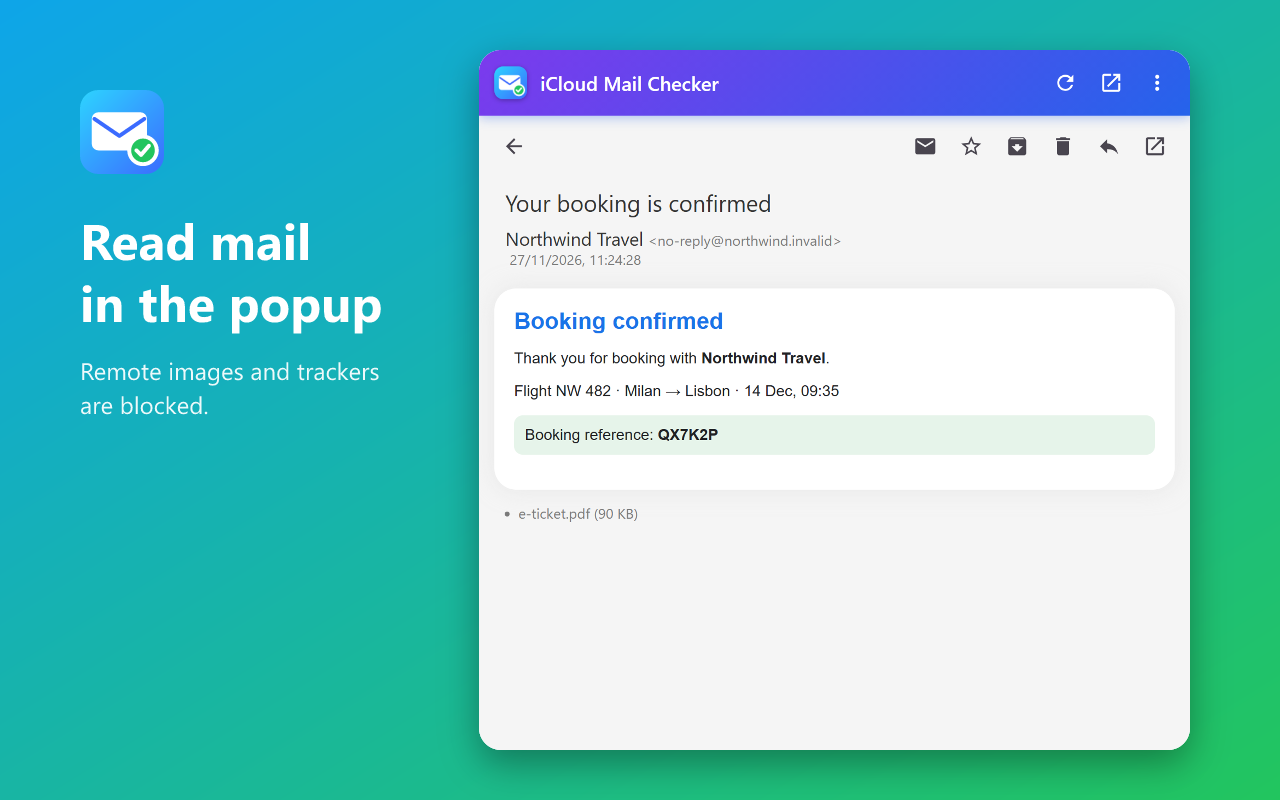
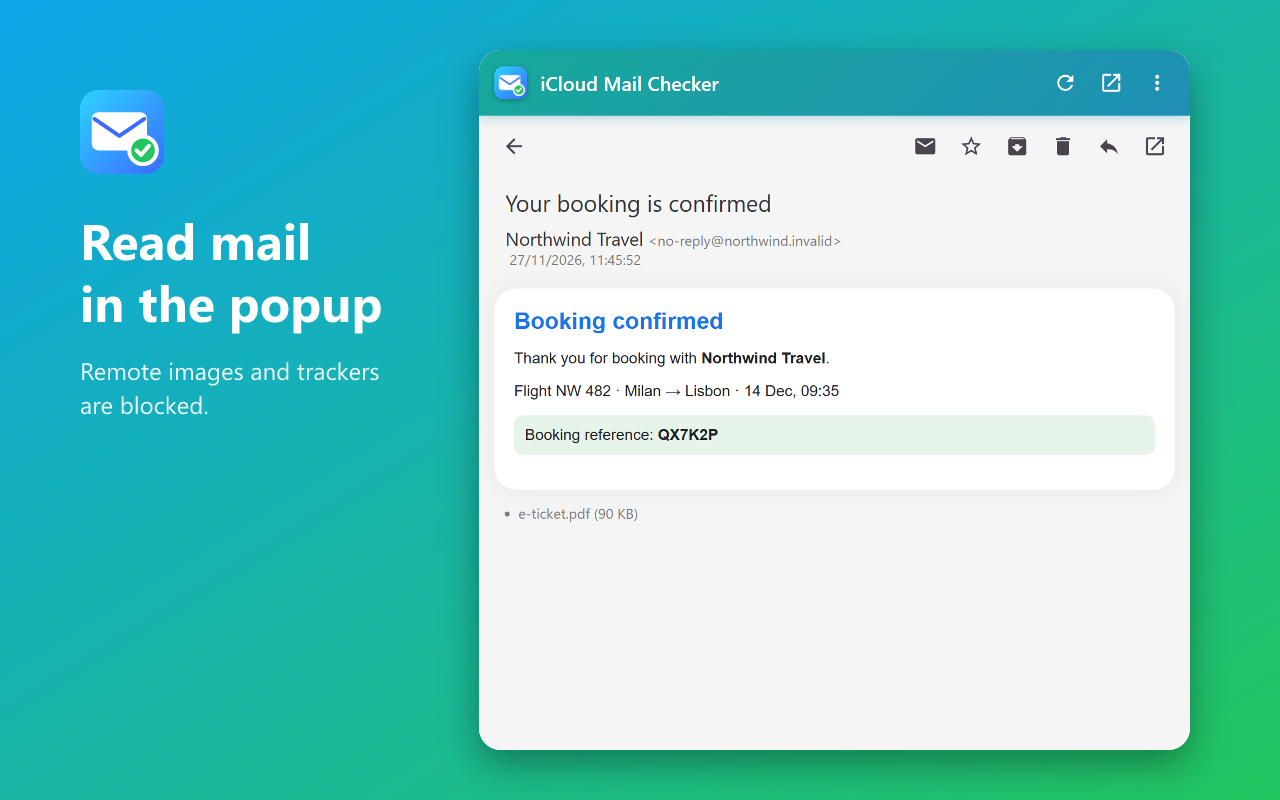
Teal header; mail cards with star, two-line preview, outlined read cards, unread count by address

Changed region(s): [[0.375, 0.0625, 0.9375, 0.1562], [0.4688, 0.3125, 0.5, 0.3438]]

diff --git a/popup/popup.css b/popup/popup.css
@@ -5,21 +5,21 @@
   --bg: #f5f5f5; --card: #fff; --text: #333; --mut: #7a7a7a; --accent: #0b57d0;
   --line: #e2e2e2; --hover: #eaeaea; --icon: #49454f; --unread: #0b57d0; --read-bg: #ebebeb;
   --glow: 0 0 20px 0 rgba(219, 219, 219, .5); --ring: 0 0 0 1px rgba(193, 193, 193, .6);
-  --on-accent: #fff; --tab-on: rgba(11, 87, 208, .1); --hero-a: #7c3aed; --hero-b: #2563eb;
+  --on-accent: #fff; --tab-on: rgba(11, 87, 208, .1); --hero-a: #17a99b; --hero-b: #1f8fb4;
 }
 :root[data-theme="light"] { color-scheme: light; }
 :root[data-theme="dark"] {
     color-scheme: dark;
     --bg: #131314; --card: #232323; --text: #ddd; --mut: #9b9b9b; --accent: #e3e3e3;
     --line: #3a3a3a; --hover: #333; --icon: #ccc; --unread: #8ab4f8; --read-bg: #1b1b1c; --glow: none; --ring: 0 0 0 1px #4a4a4a;
-    --on-accent: #1b1b1b; --tab-on: rgba(255, 255, 255, .12); --hero-a: #c4b5fd; --hero-b: #93c5fd;
+    --on-accent: #1b1b1b; --tab-on: rgba(255, 255, 255, .12); --hero-a: #7ee0d3; --hero-b: #8fd3ee;
 }
 @media (prefers-color-scheme: dark) {
   :root:not([data-theme="light"]) {
     color-scheme: dark;
     --bg: #131314; --card: #232323; --text: #ddd; --mut: #9b9b9b; --accent: #e3e3e3;
     --line: #3a3a3a; --hover: #333; --icon: #ccc; --unread: #8ab4f8; --read-bg: #1b1b1c; --glow: none; --ring: 0 0 0 1px #4a4a4a;
-    --on-accent: #1b1b1b; --tab-on: rgba(255, 255, 255, .12); --hero-a: #c4b5fd; --hero-b: #93c5fd;
+    --on-accent: #1b1b1b; --tab-on: rgba(255, 255, 255, .12); --hero-a: #7ee0d3; --hero-b: #8fd3ee;
   }
 }
 * { box-sizing: border-box; }
@@ -35,7 +35,7 @@ button { font: inherit; color: inherit; cursor: pointer; border: 0; background: 
 .icon.sm { width: 32px; height: 32px; }
 .primary { background: var(--accent); color: var(--on-accent); border-radius: 20px; padding: 8px 22px; font-weight: 500; }
 
-.top { display: flex; align-items: center; gap: 2px; padding: 10px 10px 10px 14px; background: linear-gradient(135deg, #7c3aed, #2563eb); color: #fff; position: sticky; top: 0; z-index: 4; box-shadow: 0 2px 10px rgba(37, 99, 235, .35); }
+.top { display: flex; align-items: center; gap: 2px; padding: 10px 10px 10px 14px; background: linear-gradient(135deg, #17a99b, #1f8fb4); color: #fff; position: sticky; top: 0; z-index: 4; box-shadow: 0 2px 10px rgba(31, 143, 180, .3); }
 .logo-img { width: 30px; height: 30px; border-radius: 8px; margin-right: 10px; box-shadow: 0 1px 4px rgba(0, 0, 0, .3); }
 .title { font-size: 18px; font-weight: 600; }
 .top .icon { color: #fff; }
@@ -61,7 +61,7 @@ button { font: inherit; color: inherit; cursor: pointer; border: 0; background: 
 .tabs button:hover { background: var(--hover); }
 .tabs .on { color: var(--accent); font-weight: 500; background: var(--tab-on); }
 
-.mail { position: relative; display: flex; align-items: flex-start; cursor: pointer; padding: 15px; margin: 11px; border-radius: 26px; background: var(--card); box-shadow: var(--glow); transition: box-shadow .15s; }
+.mail { position: relative; display: flex; align-items: flex-start; cursor: pointer; padding: 15px; border: 1px solid transparent; margin: 11px; border-radius: 26px; background: var(--card); box-shadow: var(--glow); transition: box-shadow .15s; }
 .mail:hover { box-shadow: var(--ring); }
 .mail .avatar { margin-inline-end: 16px; }
 .mail-content { flex: 1; min-width: 0; line-height: 130%; }
@@ -70,14 +70,14 @@ button { font: inherit; color: inherit; cursor: pointer; border: 0; background: 
 .sender .count { opacity: .6; font-size: 80%; margin-inline-start: 4px; }
 .date { color: var(--mut); font-size: 12px; white-space: nowrap; }
 .subject { overflow: hidden; text-overflow: ellipsis; white-space: nowrap; }
-.snippet { color: var(--mut); overflow: hidden; text-overflow: ellipsis; white-space: nowrap; }
+.snippet { color: var(--mut); display: -webkit-box; -webkit-line-clamp: 2; -webkit-box-orient: vertical; overflow: hidden; margin-top: 2px; padding-right: 30px; }
 /* Unread: bright card, accent bar, bold text. Read: dimmed, flat, regular weight. */
 .mail.unread { background: var(--card); box-shadow: var(--glow); }
-.mail.unread::before { content: ""; position: absolute; left: 0; top: 16px; bottom: 16px; width: 5px; border-radius: 0 5px 5px 0; background: linear-gradient(180deg, #7c3aed, #2563eb); }
-.mail.unread .avatar { box-shadow: 0 0 0 3px rgba(124, 58, 237, .3); }
+.mail.unread::before { content: ""; position: absolute; left: 0; top: 16px; bottom: 16px; width: 5px; border-radius: 0 5px 5px 0; background: linear-gradient(180deg, #17a99b, #1f8fb4); }
+.mail.unread .avatar { box-shadow: 0 0 0 3px rgba(23, 169, 155, .35); }
 .mail.unread .sender, .mail.unread .subject { font-weight: 700; color: var(--text); }
 .mail.unread .date { color: var(--text); font-weight: 600; }
-.mail:not(.unread) { background: var(--read-bg); box-shadow: none; }
+.mail:not(.unread) { background: transparent; box-shadow: none; border-color: var(--line); }
 .mail:not(.unread) .sender, .mail:not(.unread) .subject { font-weight: 400; color: var(--mut); }
 .mail:not(.unread) .avatar { opacity: .6; }
 .mail:hover { box-shadow: var(--ring); }
@@ -132,3 +132,7 @@ button { font: inherit; color: inherit; cursor: pointer; border: 0; background: 
 .hero { padding: 14px 24px 2px; }
 .hero h1 { margin: 0; font-size: 32px; line-height: 1.1; font-weight: 700; letter-spacing: -.5px; background: linear-gradient(135deg, var(--hero-a), var(--hero-b)); -webkit-background-clip: text; background-clip: text; color: transparent; }
 #hero-sub { color: var(--mut); font-size: 15px; margin-top: 4px; }
+
+.mail-star { position: absolute; right: 12px; bottom: 12px; width: 32px; height: 32px; border-radius: 50%; display: grid; place-items: center; color: var(--mut); }
+.mail-star:hover { background: var(--hover); color: var(--text); }
+.mail-star.on { color: #f4b400; }

diff --git a/options/options.css b/options/options.css
@@ -1,22 +1,22 @@
 :root {
   color-scheme: light dark;
-  --bg: #f5f5f5; --card: #fff; --text: #333; --mut: #7a7a7a; --accent: #7c3aed; --line: #e6e6e6;
+  --bg: #f5f5f5; --card: #fff; --text: #333; --mut: #7a7a7a; --accent: #17a99b; --line: #e6e6e6;
   --glow: 0 0 20px 0 rgba(219, 219, 219, .6); --field: #f0f0f0; --ok: #188038; --bad: #d93025;
 }
 :root[data-theme="light"] { color-scheme: light; }
 :root[data-theme="dark"] {
   color-scheme: dark;
-  --bg: #131314; --card: #232323; --text: #ddd; --mut: #9b9b9b; --accent: #a78bfa; --line: #353535; --glow: none; --field: #2f2f31; --ok: #81c995; --bad: #f28b82;
+  --bg: #131314; --card: #232323; --text: #ddd; --mut: #9b9b9b; --accent: #5eead4; --line: #353535; --glow: none; --field: #2f2f31; --ok: #81c995; --bad: #f28b82;
 }
 @media (prefers-color-scheme: dark) {
   :root:not([data-theme="light"]) {
   color-scheme: dark;
-  --bg: #131314; --card: #232323; --text: #ddd; --mut: #9b9b9b; --accent: #a78bfa; --line: #353535; --glow: none; --field: #2f2f31; --ok: #81c995; --bad: #f28b82;
+  --bg: #131314; --card: #232323; --text: #ddd; --mut: #9b9b9b; --accent: #5eead4; --line: #353535; --glow: none; --field: #2f2f31; --ok: #81c995; --bad: #f28b82;
   }
 }
 * { box-sizing: border-box; }
 body { margin: 0; background: var(--bg); color: var(--text); font: 15px/1.4 Roboto, 'Segoe UI', system-ui, sans-serif; }
-.top { display: flex; align-items: center; padding: 16px 28px; background: linear-gradient(135deg, #7c3aed, #2563eb); color: #fff; box-shadow: 0 2px 10px rgba(37, 99, 235, .35); }
+.top { display: flex; align-items: center; padding: 16px 28px; background: linear-gradient(135deg, #17a99b, #1f8fb4); color: #fff; box-shadow: 0 2px 10px rgba(31, 143, 180, .3); }
 .logo-img { width: 36px; height: 36px; border-radius: 10px; margin-right: 14px; box-shadow: 0 1px 4px rgba(0, 0, 0, .3); }
 .title { font-size: 22px; font-weight: 600; }
 main { max-width: 640px; margin: 0 auto; padding: 22px 16px 40px; }
@@ -30,7 +30,7 @@ select { background: var(--field); color: var(--text); border: 0; border-radius:
 .btns { display: flex; gap: 10px; flex-wrap: wrap; }
 .btn { background: var(--field); color: var(--text); border: 0; border-radius: 20px; padding: 9px 20px; font: inherit; font-weight: 500; cursor: pointer; }
 .btn:hover { filter: brightness(.95); }
-.btn.primary { background: linear-gradient(135deg, #7c3aed, #2563eb); color: #fff; }
+.btn.primary { background: linear-gradient(135deg, #17a99b, #1f8fb4); color: #fff; }
 .switch { position: relative; width: 46px; height: 26px; flex-shrink: 0; }
 .switch input { position: absolute; opacity: 0; inset: 0; margin: 0; cursor: pointer; z-index: 1; }
 .switch span { position: absolute; inset: 0; background: #b9b9bf; border-radius: 26px; transition: background .15s; }

diff --git a/popup/popup.js b/popup/popup.js
@@ -58,7 +58,7 @@ async function home() {
   $('account').hidden = !signedIn;
   if (!signedIn) return;
   avatar(state.email, $('acc-avatar'));
-  $('acc-email').textContent = state.email;
+  $('acc-email').textContent = (state.unread || 0) > 0 ? `${state.email} (${state.unread})` : state.email;
   const n = state.unread || 0;
   $('acc-sub').textContent = `${n} ${t('unreadLabel')}`;
   $('hero-title').textContent = n > 0 ? `${n} ${t('unreadLabel')}` : t('heroZero');
@@ -100,7 +100,19 @@ function row(m) {
     actionBtn('archive', t('archive'), async () => { if ((await rowCall(m, 'archive')).ok) load(); }),
     actionBtn('trash', t('trash'), async () => { if ((await rowCall(m, 'trash')).ok) load(); })
   );
-  d.append(avatar(m.from), content, acts);
+  const star = document.createElement('button');
+  star.className = 'mail-star' + (m.starred ? ' on' : '');
+  star.title = t('star');
+  star.append(icon(m.starred ? 'star' : 'starBorder', 22));
+  star.onclick = async (e) => {
+    e.stopPropagation();
+    const r = await rowCall(m, 'star', { on: !m.starred });
+    if (!r.ok) return;
+    m.starred = !m.starred;
+    star.classList.toggle('on', m.starred);
+    star.replaceChildren(icon(m.starred ? 'star' : 'starBorder', 22));
+  };
+  d.append(avatar(m.from), content, acts, star);
   d.onclick = () => open(m);
   return d;
 }

diff --git a/background/poller.js b/background/poller.js
@@ -19,7 +19,7 @@ async function setBadge(unread, signedIn) {
   const s = await getSettings();
   const text = !signedIn ? '!' : s.badge && unread > 0 ? (unread > 99 ? '99+' : String(unread)) : '';
   await chrome.action.setBadgeText({ text });
-  await chrome.action.setBadgeBackgroundColor({ color: signedIn ? '#7c3aed' : '#8a8a8a' });
+  await chrome.action.setBadgeBackgroundColor({ color: signedIn ? '#17a99b' : '#8a8a8a' });
 }
 
 /**
